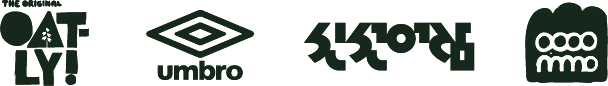
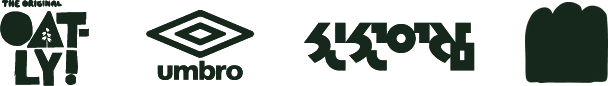
feat: 싸커피 데이 — 88모 로고를 블록형으로 교체, 인스타그램 링크 노출

diff --git a/day.html b/day.html
@@ -152,8 +152,10 @@
   /* 푸터 */
   .cta{margin:48px 0 0;padding:32px 0 52px;text-align:center;border-top:2px solid var(--ink)}
   .cta p{color:var(--muted);font-size:14px;margin-bottom:14px}
-  .cta a.btn{display:inline-block;background:var(--ink);color:var(--cream);font-weight:900;font-size:15px;border-radius:999px;padding:13px 26px;text-decoration:none}
+  .cta a.btn{display:inline-block;background:var(--ink);color:var(--cream);font-weight:900;font-size:15px;border-radius:999px;padding:13px 26px;text-decoration:none;margin:6px}
+  .cta a.btn.ghost{background:transparent;color:var(--ink);border:2px solid var(--ink);padding:11px 24px}
   .foot{padding:22px 0 40px;text-align:center;font-size:12px;color:var(--muted)}
+  .foot a{text-decoration:none;font-weight:800;color:var(--sub)}
 </style>
 </head>
 <body>
@@ -301,11 +303,12 @@
   <div class="cta">
     <p>싸커피가 궁금하다면</p>
     <a class="btn" href="index.html">싸커피 소개 보러 가기</a>
+    <a class="btn ghost" href="https://instagram.com/soccoffee__" target="_blank" rel="noopener">인스타그램 @soccoffee__</a>
   </div>
 
 </main>
 
-<footer class="foot">SOCCOFFEE · Drink Coffee, Play Football · EST 2024</footer>
+<footer class="foot"><a href="https://instagram.com/soccoffee__" target="_blank" rel="noopener">@soccoffee__</a> · SOCCOFFEE · Drink Coffee, Play Football · EST 2024</footer>
 
 <script>
 (function(){
